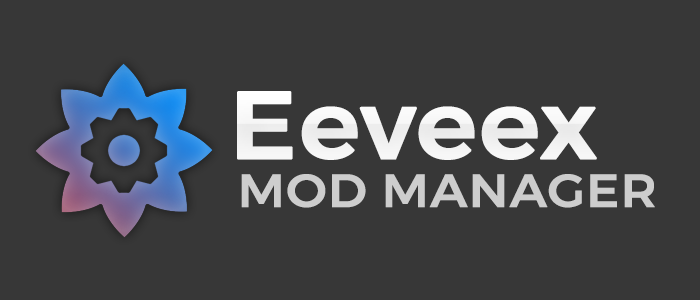
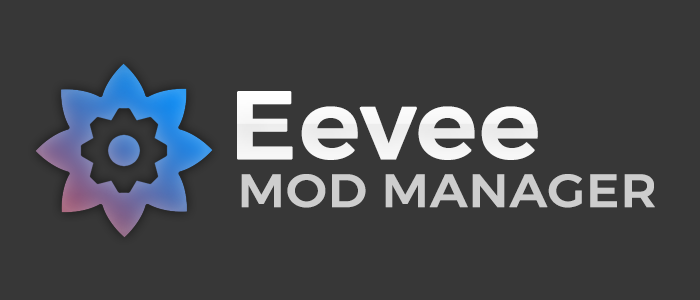
no
improved and changed name
hopefully not going to get copystriked for using the name Eevee

Changed region(s): [[0.75, 0.33, 0.87, 0.54]]

diff --git a/EeveexModManager/Windows/GameConfigurationWindow.xaml b/EeveexModManager/Windows/GameConfigurationWindow.xaml
@@ -32,7 +32,7 @@
         <Image Name="GameImage" Width="140" Height="140" HorizontalAlignment="Left" VerticalAlignment="Bottom" Margin="10"/>
         <StackPanel Orientation="Vertical" VerticalAlignment="Bottom" HorizontalAlignment="Right" Margin="10">
             <Button Name="OkButton" Content="OK" Click="OkButton_Click" Width="125" Height="45" FontSize="30" Margin="0,0,0,10"/>
-            <Button Name="QuitButton" Content="Quit EVX" Click="QuitButton_Click" FontSize="30" Height="45" Width="125"/>
+            <Button Name="QuitButton" Content="Quit EMM" Click="QuitButton_Click" FontSize="30" Height="45" Width="125"/>
         </StackPanel>
     </Grid>
 </Window>

diff --git a/EeveexModManager/Windows/GameConfigurationWindow.xaml.cs b/EeveexModManager/Windows/GameConfigurationWindow.xaml.cs
@@ -109,7 +109,7 @@ namespace EeveexModManager.Windows
             if (d.ShowDialog() == System.Windows.Forms.DialogResult.OK)
             {
                 p = d.SelectedPath;
-                p = p.Length > 3 ? p : p + "EVX\\Downloads\\" + AssociatedGame.Id.ToString();
+                p = p.Length > 3 ? p : p + "EMM\\Downloads\\" + AssociatedGame.Id.ToString();
                 ProfilesDirectory_TB.Text = p;
             }
         }
@@ -121,7 +121,7 @@ namespace EeveexModManager.Windows
             if(d.ShowDialog() == System.Windows.Forms.DialogResult.OK)
             {
                 p = d.SelectedPath;
-                p = p.Length > 3 ? p : p + "EVX\\Profiles\\" + AssociatedGame.Id.ToString();
+                p = p.Length > 3 ? p : p + "EMM\\Profiles\\" + AssociatedGame.Id.ToString();
                 ProfilesDirectory_TB.Text = p;
             }
         }
@@ -136,7 +136,7 @@ namespace EeveexModManager.Windows
             if (d.ShowDialog() == System.Windows.Forms.DialogResult.OK)
             {
                 p = d.SelectedPath;
-                p = p.Length > 3 ? p : p + "EVX\\Mods\\" + AssociatedGame.Id.ToString();
+                p = p.Length > 3 ? p : p + "EMM\\Mods\\" + AssociatedGame.Id.ToString();
             }
 
             while(p[0] != DriveChar)
@@ -145,7 +145,7 @@ namespace EeveexModManager.Windows
                 if (d.ShowDialog() == System.Windows.Forms.DialogResult.OK)
                 {
                     p = d.SelectedPath;
-                    p = p.Length > 3 ? p : p + "EVX\\Mods\\" + AssociatedGame.Id.ToString();
+                    p = p.Length > 3 ? p : p + "EMM\\Mods\\" + AssociatedGame.Id.ToString();
                 }
             }
             ProfilesDirectory_TB.Text = p;
@@ -161,7 +161,7 @@ namespace EeveexModManager.Windows
             if (d.ShowDialog() == System.Windows.Forms.DialogResult.OK)
             {
                 p = d.SelectedPath;
-                p = p.Length > 3 ? p : p + "EVX\\Backups\\" + AssociatedGame.Id.ToString();
+                p = p.Length > 3 ? p : p + "EMM\\Backups\\" + AssociatedGame.Id.ToString();
             }
 
             while (p[0] != DriveChar)
@@ -170,7 +170,7 @@ namespace EeveexModManager.Windows
                 if (d.ShowDialog() == System.Windows.Forms.DialogResult.OK)
                 {
                     p = d.SelectedPath;
-                    p = p.Length > 3 ? p : p + "EVX\\Backups\\" + AssociatedGame.Id.ToString();
+                    p = p.Length > 3 ? p : p + "EMM\\Backups\\" + AssociatedGame.Id.ToString();
                 }
             }
             ProfilesDirectory_TB.Text = p;

diff --git a/EeveexModManager/Classes/ModManager.cs b/EeveexModManager/Classes/ModManager.cs
@@ -36,7 +36,6 @@ namespace EeveexModManager.Classes
     public class ModManager
     {
         private DatabaseContext_Profile _db;
-        private HttpClient httpClient;
 
         private ListView Mods_View { get; }
         private ListView Downloads_View { get; }
@@ -106,7 +105,7 @@ namespace EeveexModManager.Classes
         }
         public async Task CreateMod(Game CurrentGame, NexusUrl nexusUrl) //online
         {
-            if (!_db.GetCollection<Db_Mod>("mods").FindAll().Select(x => x.FileId).Contains(nexusUrl.FileId) && _accountHandler.IsLoggedIn)
+            if (!_db.GetCollection<Db_Mod>("mods").Exists(x => x.FileId == nexusUrl.FileId) && _accountHandler.IsLoggedIn)
             {
                 var result_downloadInfo = await _nexusCommunicator.GetDownloadLinks(CurrentGame.Name_API, nexusUrl.ModId, nexusUrl.FileId);
                 var result_modInfo = await _nexusCommunicator.GetModInfo(CurrentGame.Name_API, nexusUrl.ModId);
@@ -124,6 +123,7 @@ namespace EeveexModManager.Classes
 
                 if (!Directory.Exists(DownloadTo))
                     Directory.CreateDirectory(DownloadTo);
+
                 if (!Directory.Exists(InstallTo))
                     Directory.CreateDirectory(InstallTo);
 

diff --git a/EeveexModManager/Classes/Game.cs b/EeveexModManager/Classes/Game.cs
@@ -110,10 +110,10 @@ namespace EeveexModManager.Classes
 
             string idAsString = Id.ToString();
 
-            ModsDirectory = InstallationPath[0] + ":\\EVX\\Mods\\" + idAsString;
-            DownloadsDirectory = Environment.GetFolderPath(Environment.SpecialFolder.ApplicationData) + "\\EVX\\Downloads\\" + idAsString;
-            ProfilesDirectory = Environment.GetFolderPath(Environment.SpecialFolder.ApplicationData) + "\\EVX\\Profiles\\" + idAsString;
-            BackupsDirectory = InstallationPath[0] + ":\\EVX\\Backups\\" + idAsString;
+            ModsDirectory = InstallationPath[0] + ":\\EMM\\Mods\\" + idAsString;
+            DownloadsDirectory = Environment.GetFolderPath(Environment.SpecialFolder.ApplicationData) + "\\EMM\\Downloads\\" + idAsString;
+            ProfilesDirectory = Environment.GetFolderPath(Environment.SpecialFolder.ApplicationData) + "\\EMM\\Profiles\\" + idAsString;
+            BackupsDirectory = InstallationPath[0] + ":\\EMM\\Backups\\" + idAsString;
         }
 
         /// <summary>

diff --git a/EeveexModManager/MainWindow.xaml.cs b/EeveexModManager/MainWindow.xaml.cs
@@ -8,6 +8,10 @@ using System.IO;
 using System.Threading.Tasks;
 using System.Windows.Threading;
 using System.ComponentModel;
+using System.Windows.Media;
+using System.Windows.Media.Imaging;
+using System.Diagnostics;
+using System.Windows.Data;
 
 using Newtonsoft.Json;
 
@@ -16,11 +20,7 @@ using EeveexModManager.Classes;
 using EeveexModManager.Classes.DatabaseClasses;
 using EeveexModManager.Controls;
 using EeveexModManager.Windows;
-using System.Windows.Media;
-using System.Windows.Media.Imaging;
 using EeveexModManager.Interfaces;
-using System.Diagnostics;
-using System.Windows.Data;
 
 namespace EeveexModManager
 {

diff --git a/EeveexModManager/Classes/ApplicationSettings.cs b/EeveexModManager/Classes/ApplicationSettings.cs
@@ -21,7 +21,7 @@ namespace EeveexModManager.Classes
         {
             InstallationPath = InstallationPath ?? Environment.CurrentDirectory;
             Environment.CurrentDirectory = InstallationPath;
-            ApplicationDataPath = ApplicationDataPath ?? $@"{Environment.GetFolderPath(Environment.SpecialFolder.ApplicationData)}\EVX";
+            ApplicationDataPath = ApplicationDataPath ?? $@"{Environment.GetFolderPath(Environment.SpecialFolder.ApplicationData)}\EMM";
         }
 
         [UserScopedSetting()]

diff --git a/EeveexModManager/Classes/DatabaseClasses/DatabaseContext_Main.cs b/EeveexModManager/Classes/DatabaseClasses/DatabaseContext_Main.cs
@@ -14,7 +14,7 @@ namespace EeveexModManager.Classes.DatabaseClasses
 {
     public class DatabaseContext_Main : LiteDatabase
     {
-        public DatabaseContext_Main() : base(Defined.Settings.ApplicationDataPath + @"\EeveexModManager.db4")
+        public DatabaseContext_Main() : base(Defined.Settings.ApplicationDataPath + @"\EeveeModManager.db4")
         {
             GetCollection<Db_Game>("games").EnsureIndex(x => x.Name);
 

diff --git a/EeveexModManager/Classes/DatabaseClasses/DatabaseContext_Profile.cs b/EeveexModManager/Classes/DatabaseClasses/DatabaseContext_Profile.cs
@@ -16,7 +16,7 @@ namespace EeveexModManager.Classes.DatabaseClasses
         public GameListEnum GameId { get; protected set; }
 
         public DatabaseContext_Profile(string profileDir, GameListEnum gameId) : 
-            base(profileDir + $@"\EVX.db4")
+            base(profileDir + $@"\EMM.db4")
         {
             GameId = GameId;
             GetCollection<Db_Mod>("mods").EnsureIndex(x => x.FileId);

diff --git a/EeveexModManager/Classes/NamedPipeManager.cs b/EeveexModManager/Classes/NamedPipeManager.cs
@@ -4,14 +4,14 @@ using System.Linq;
 using System.Text;
 using System.Threading.Tasks;
 using System.IO.Pipes;
-
-using EeveexModManager.Interfaces;
 using System.Threading;
 using System.IO;
 using System.Windows;
 using System.Security.AccessControl;
 using System.Security.Principal;
 using System.Windows.Threading;
+
+using EeveexModManager.Interfaces;
 
 namespace EeveexModManager.Classes
 {

diff --git a/EeveexModManager/Controls/GameDetector_Control.cs b/EeveexModManager/Controls/GameDetector_Control.cs
@@ -99,8 +99,7 @@ namespace EeveexModManager.Controls
             Children.Add(UpperPanel);
 
         }
-
-
+        
         private void IgnoreModButton_Click(object sender, RoutedEventArgs e)
         {
             IgnoreMod();
